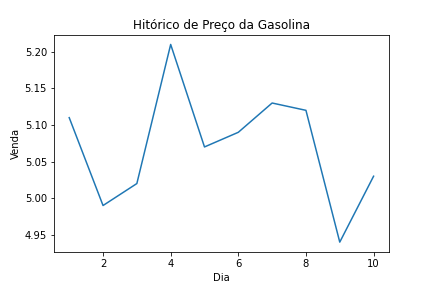
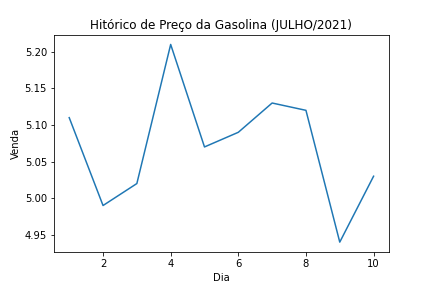
alterado coódigo de geração do gráfico e gráfico em brach develop

Changed region(s): [[0.2106, 0.0625, 0.8125, 0.125]]

diff --git a/gasolina.py b/gasolina.py
@@ -11,10 +11,8 @@ df_gasolina = pd.read_csv('gasolina.csv')
 
 # geração do gráfico
 
-grafico_gasolina = sns.lineplot(data=df_gasolina, x='dia', y='venda', palette='mako')
-grafico_gasolina.set(title='Hitórico de Preço da Gasolina', xlabel='Dia', ylabel='Venda');
+grafico_gasolina = sns.lineplot(data=df_gasolina, x='dia', y='venda', palette='BuGn')
+grafico_gasolina.set(title='Hitórico de Preço da Gasolina (JULHO/2021)', xlabel='Dia', ylabel='Venda');
 
 # salvando imagem
 plt.savefig('/content/wda-ebac/gasolina.png')
-
-%%writefile gasolina.py
